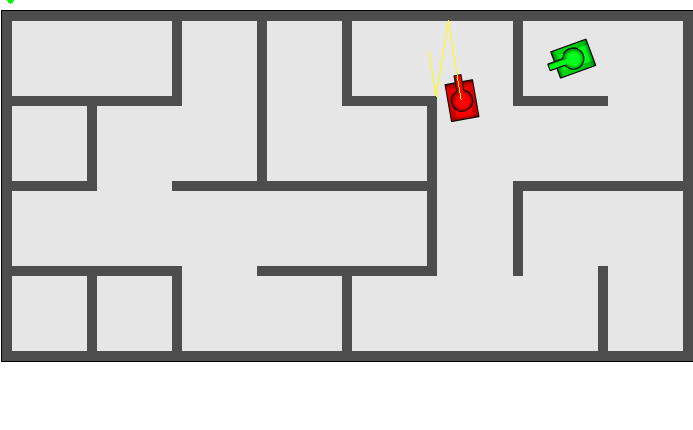
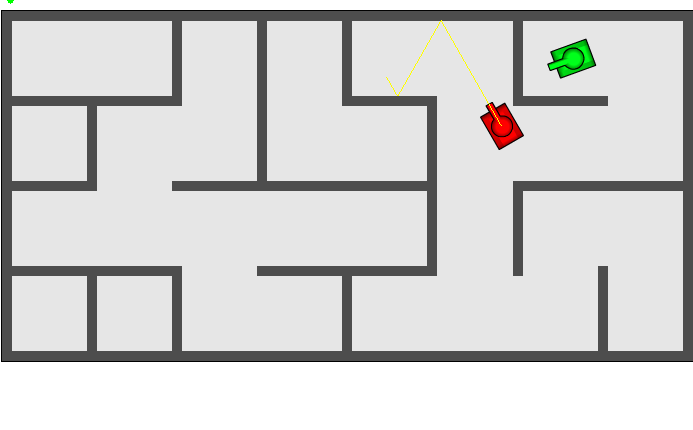
idk

Changed region(s): [[0.6364, 0.0605, 0.7576, 0.3628]]

diff --git a/keyboard.py b/keyboard.py
@@ -14,7 +14,7 @@ def left():
 	pyautogui.keyUp("s")
 def forward():
 	pyautogui.keyDown("e")
-	time.sleep(0.5)
+	time.sleep(0.1)
 	pyautogui.keyUp("e")
 def backward():
 	pyautogui.keyDown("d")
